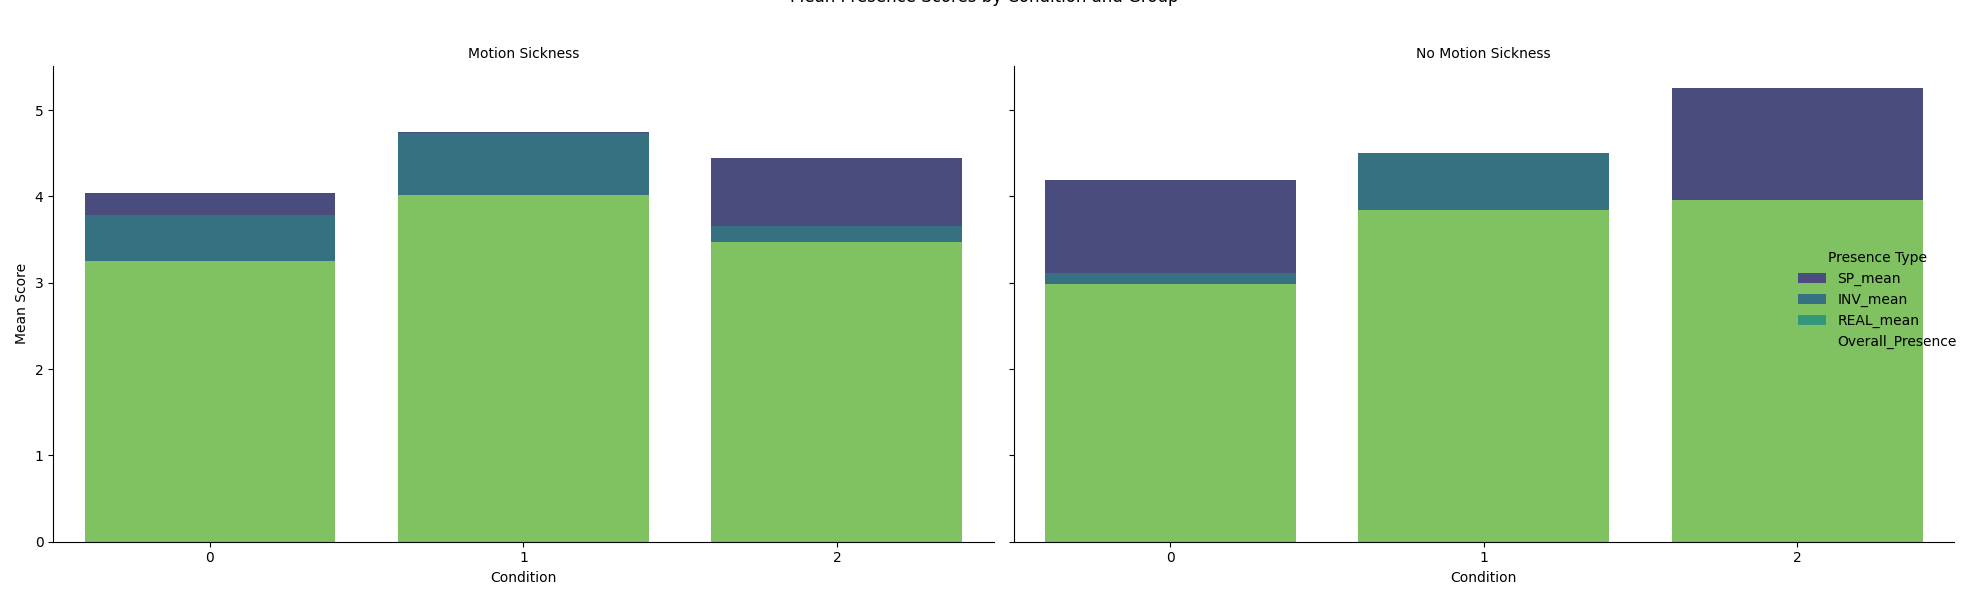
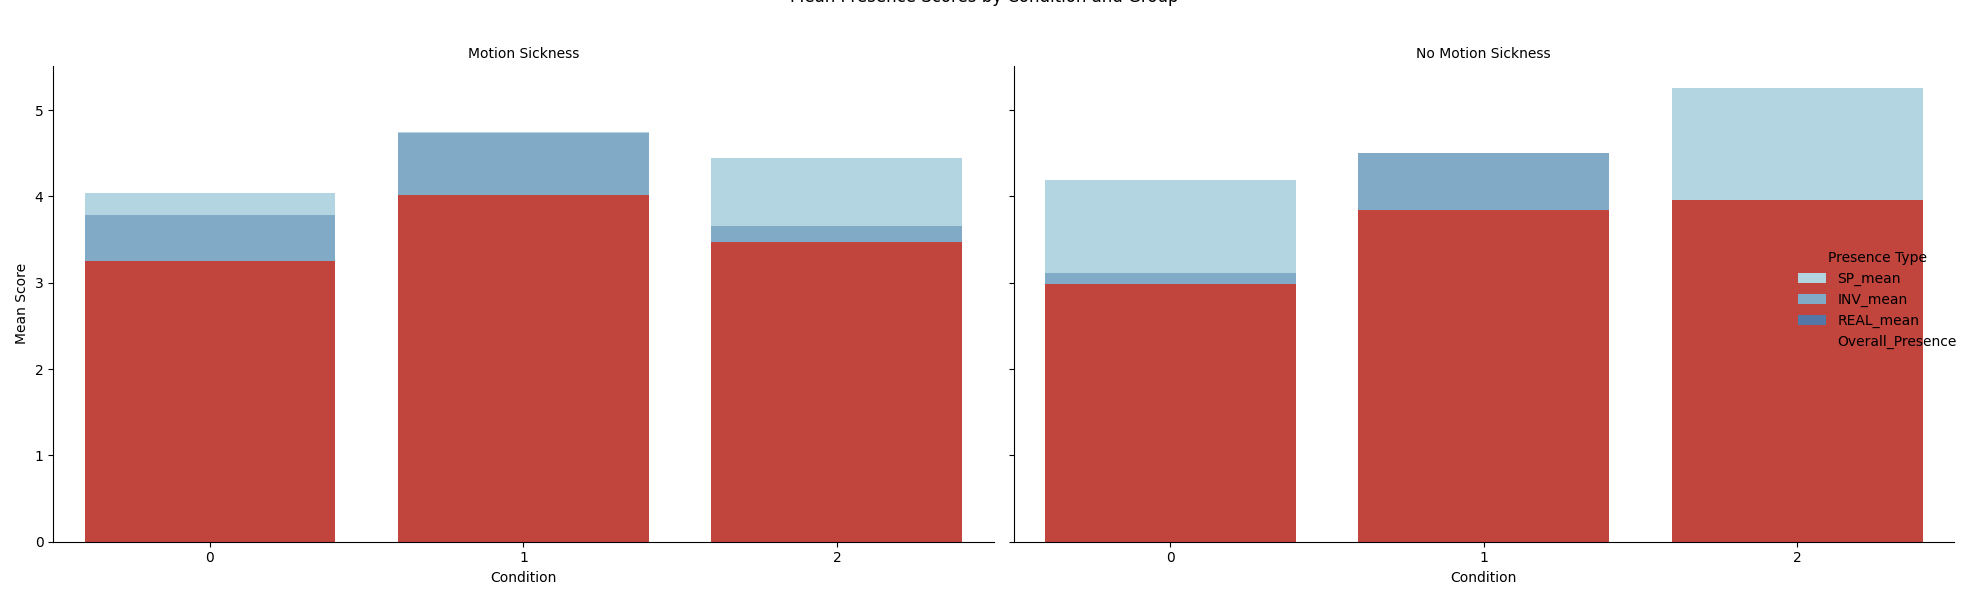
.

diff --git a/POMS/IPQ_plots_ms.py b/POMS/IPQ_plots_ms.py
@@ -12,41 +12,36 @@ ipq_scores = pd.read_csv(ipq_scores_file)
 no_ms_data = pd.read_csv(no_ms_file)
 ms_data = pd.read_csv(ms_file)
 
+# Calculate the overall presence
 ipq_scores['Overall_Presence'] = ipq_scores[['SP_mean', 'INV_mean', 'REAL_mean']].mean(axis=1)
 
-no_ms_participants = no_ms_data['Participant']
-ms_participants = ms_data['Participant']
+# Determine if participants belong to the motion sickness group or not
+no_ms_participants = no_ms_data['Participant'].unique()
+ms_participants = ms_data['Participant'].unique()
 
-ipq_scores['Group'] = ipq_scores['Participant'].apply(lambda x: 'No Motion Sickness' if x in no_ms_participants.values else ('Motion Sickness' if x in ms_participants.values else 'Unknown'))
-
+ipq_scores['Group'] = ipq_scores['Participant'].apply(lambda x: 'No Motion Sickness' if x in no_ms_participants else ('Motion Sickness' if x in ms_participants else 'Unknown'))
 ipq_scores = ipq_scores[ipq_scores['Group'] != 'Unknown']
 
+# Group the data and prepare for plotting
 condition_means = ipq_scores.groupby(['Group', 'Condition'])[['SP_mean', 'INV_mean', 'REAL_mean', 'Overall_Presence']].mean().reset_index()
-
-
 melted_data = condition_means.melt(id_vars=['Group', 'Condition'], var_name='Presence_Type', value_name='Mean_Score')
 
-pd.set_option('display.max_rows', None)  
-pd.set_option('display.max_columns', None)  
-pd.set_option('display.width', None)  
-print(melted_data)
-
-pd.reset_option('display.max_rows')
-pd.reset_option('display.max_columns')
-pd.reset_option('display.width')
-
+# Customize the plot
 plt.figure(figsize=(14, 10))
+palette = {"SP_mean": "#74add1", "INV_mean": "#4575b4", "REAL_mean": "#313695", "Overall_Presence": "#800080"}  # Purple for 'Overall_Presence'
 
-g = sns.FacetGrid(melted_data, col='Group', hue='Presence_Type', col_wrap=2, height=6, aspect=1.5, palette='viridis')
-g.map(sns.barplot, 'Condition', 'Mean_Score', order=condition_means['Condition'].unique(), errorbar=None)
+g = sns.FacetGrid(melted_data, col='Group', hue='Presence_Type', col_wrap=2, height=6, aspect=1.5, palette=palette)
+g.map(sns.barplot, 'Condition', 'Mean_Score', order=condition_means['Condition'].unique())
 
 g.set_titles('{col_name}')
 g.set_axis_labels('Condition', 'Mean Score')
 g.add_legend(title='Presence Type')
+
 plt.suptitle('Mean Presence Scores by Condition and Group', y=1.02)
 
+# Save the plot
 image_path = 'POMS/Plot_Images'
-output_image = os.path.join(image_path, 'IPQ_PresencePlot_Facet.png')
+output_image = os.path.join(image_path, 'IPQ_PresencePlot_Facet_Updated.png')
 plt.tight_layout()
 plt.savefig(output_image)
 plt.show()

diff --git a/sickness_comparison.py b/sickness_comparison.py
@@ -18,12 +18,6 @@ total_people_in_condition = data.groupby('Condition_x').size()
 
 motion_sickness_percentage = (motion_sickness_counts / total_people_in_condition) * 100
 
-""" Percentage of people with motion sickness in each condition:
-Condition_x
-0    50.000000
-1    50.000000
-2    78.571429 """
-
 print("Percentage of people with motion sickness in each condition:")
 print(motion_sickness_percentage)
 
@@ -41,12 +35,12 @@ plt.figure(figsize=(12, 8))
 bar_width = 0.35
 index = np.arange(len(mood_states)) 
 
-plt.bar(index, avg_change_motion_sickness, bar_width, label='Motion Sickness')
-plt.bar(index + bar_width, avg_change_no_motion_sickness, bar_width, label='No Motion Sickness')
+plt.bar(index, avg_change_motion_sickness, bar_width, label='Motion Sickness', color="#4575b4")
+plt.bar(index + bar_width, avg_change_no_motion_sickness, bar_width, label='No Motion Sickness', color="#abd9e9")
 
 plt.xlabel('Mood State')
 plt.ylabel('Average Change')
-plt.title('Average Change in Mood States for Participants with and without Motion Sickness')
+#plt.title('Average Change in Mood States for Participants with and without Motion Sickness')
 plt.xticks(index + bar_width / 2, mood_states)
 plt.legend()
 plt.tight_layout()
@@ -54,7 +48,6 @@ plt.tight_layout()
 # Save plot
 output_image = os.path.join('POMS/Plot_Images', 'DEQ_sickness_comparison_plot.png')
 plt.savefig(output_image)
-
 
 plt.show()
 
@@ -65,7 +58,6 @@ columns_to_select = ['Participant', 'Condition_x', 'Before Anger', 'After Anger'
 
 participant_scores = no_motion_sickness[columns_to_select]
 participant_scores_ms = motion_sickness[columns_to_select]
-
 
 output_file = 'DEQ_MS_participant_scores.csv'
 output_path = os.path.join(folder_path, output_file)

diff --git a/POMS/IPQ_plot.py b/POMS/IPQ_plot.py
@@ -16,7 +16,8 @@ condition_means = ipq_scores.groupby('Condition')[['SP_mean', 'INV_mean', 'REAL_
 melted_data = condition_means.melt(id_vars='Condition', var_name='Presence_Type', value_name='Mean_Score')
 
 plt.figure(figsize=(12, 8))
-sns.barplot(x='Condition', y='Mean_Score', hue='Presence_Type', data=melted_data, palette='viridis')
+palette_colors = ["#abd9e9", "#74add1", "#4575b4", "#800080"]  
+sns.barplot(x='Condition', y='Mean_Score', hue='Presence_Type', data=melted_data, palette=palette_colors)
 plt.title('Mean Presence Scores by Condition')
 plt.xlabel('Condition')
 plt.ylabel('Mean Score')
@@ -24,7 +25,7 @@ plt.legend(title='Presence Type')
 plt.grid(True)
 
 image_path = 'POMS/Plot_Images'
-output_image = os.path.join(image_path, 'IPQ_PresencePlot')
+output_image = os.path.join(image_path, 'IPQ_PresencePlot.png')  # Ensure the file extension is included
 plt.tight_layout()
 plt.savefig(output_image)
 plt.show()
